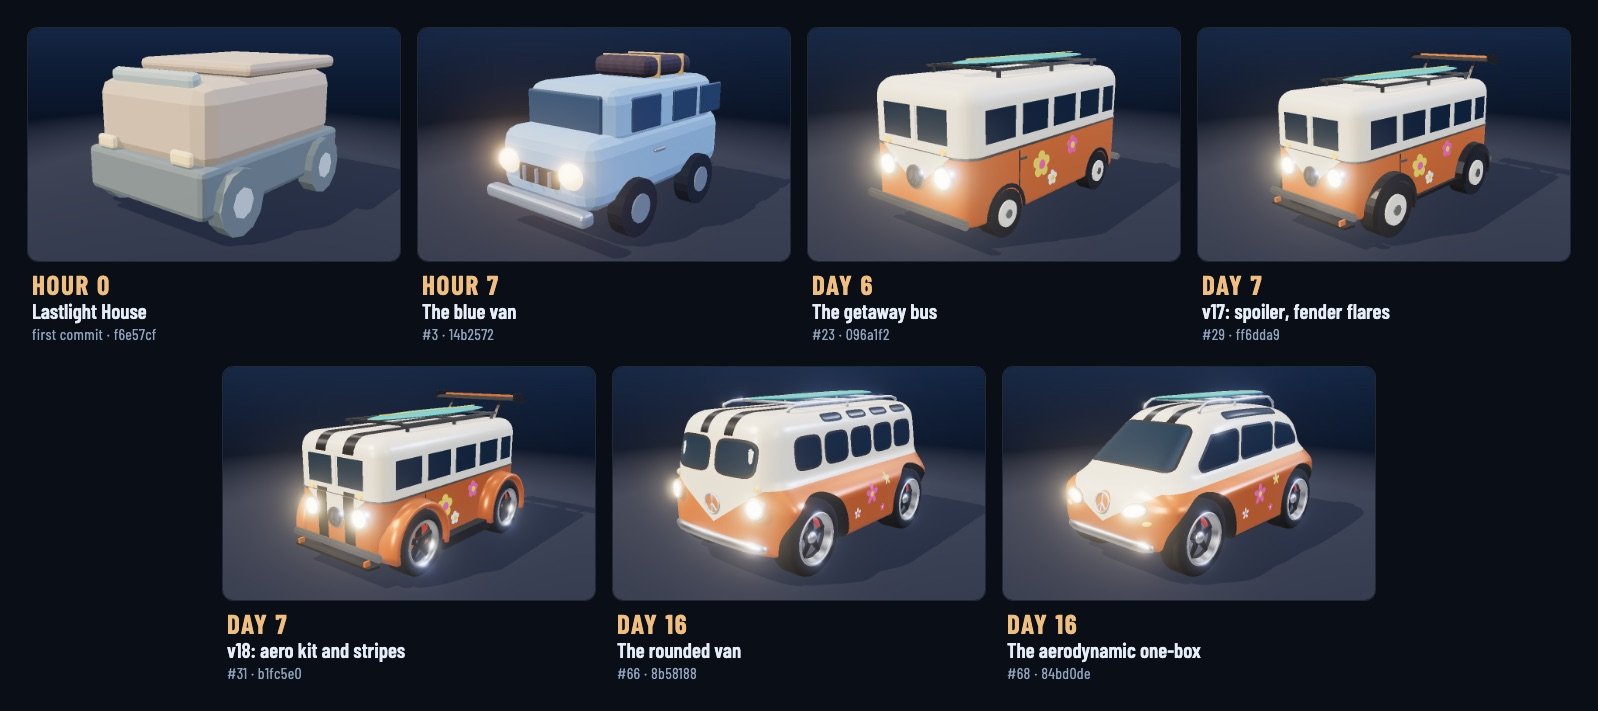
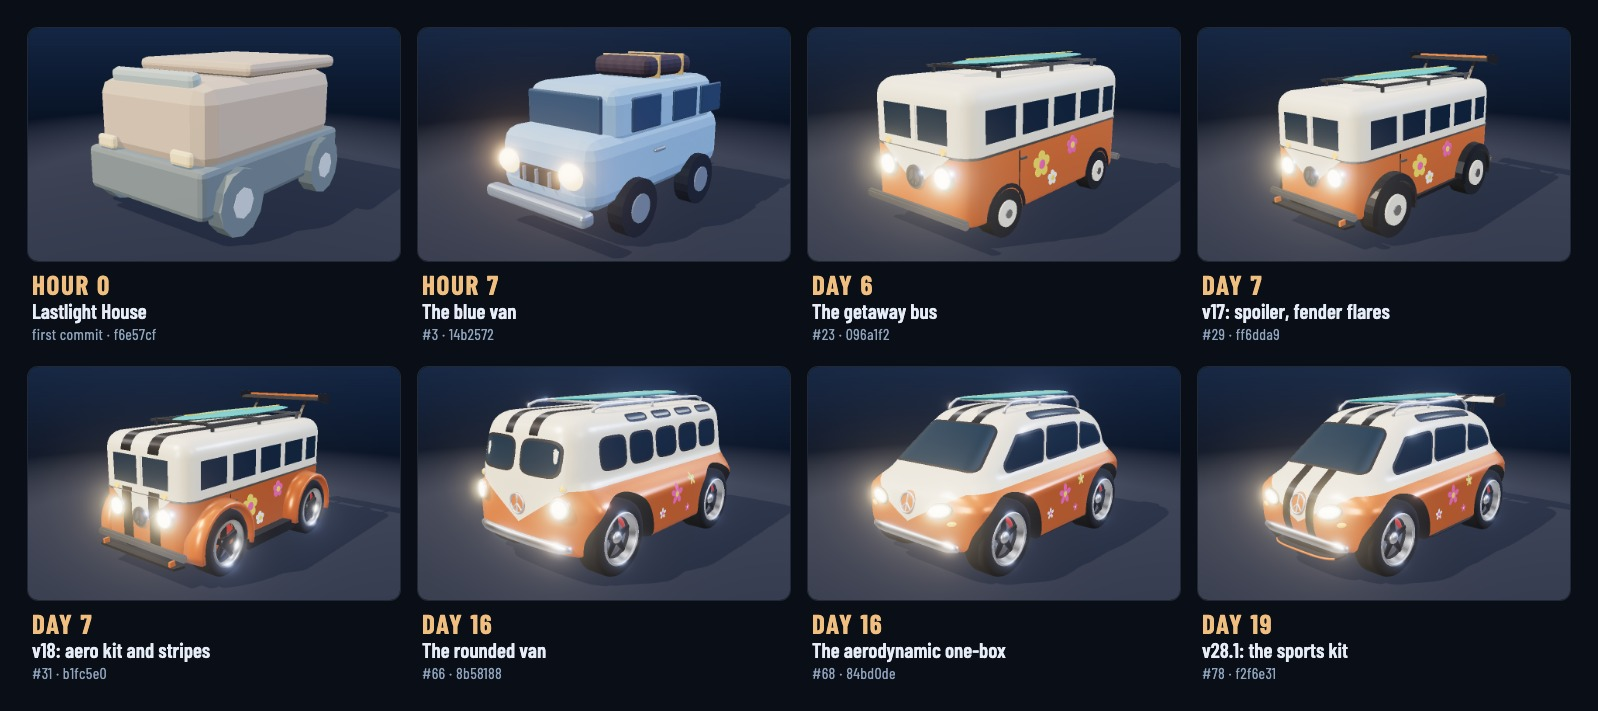
Sync Zombies history through v28.1
Refresh the public illustrated history from the private source through its latest elapsed-time milestone. Add the v28.1 landing and arrival captures, update the van lineup, and keep the README and engineering article pointers current.

Source: vasilyevstan/zombie-boardgame@41c25ef8205b60cef4e835c15a7ffed2303b5794

Validation: compared narrative to docs/HISTORY.md, verified all 31 image blob hashes, scanned images for calendar dates, and checked local links and anchors.

Changed region(s): [[0.0, 0.4951, 0.9812, 0.9592]]

diff --git a/projects/zombies-in-da-house-edge-multiplayer.md b/projects/zombies-in-da-house-edge-multiplayer.md
@@ -2,7 +2,7 @@
 
 **[Play the live demo](https://zombie-in-da-house.syntal.workers.dev)** · private source repository
 
-It started with a question: _do you know the board game «Зомби в доме», and can we make our own version of it?_ The answer became an original browser tabletop in the same spirit — find the vehicle key and the fuel, get back to the van, and if you fall, play for the house — with its own art, rules text and code. The first playable multiplayer build was committed the same evening. Seventeen days later the game had reached v28, after 163 commits on `main` and 66 merged pull requests.
+It started with a question: _do you know the board game «Зомби в доме», and can we make our own version of it?_ The answer became an original browser tabletop in the same spirit — find the vehicle key and the fuel, get back to the van, and if you fall, play for the house — with its own art, rules text and code. The first playable multiplayer build was committed the same evening. Eighteen days later the game had reached v28.1, after 174 commits on `main` and 73 merged pull requests.
 
 Every picture on this page comes from the real code of its day. Each snapshot was checked out, built from scratch and played again with the same seed; nothing is a mock-up. See [How these pictures were made](#how-these-pictures-were-made). The Warden and the van, the two models redesigned most often, also get [a section of their own](#the-warden-and-the-van).
 
@@ -10,26 +10,27 @@ Every picture on this page comes from the real code of its day. Each snapshot wa
 
 ## At a glance
 
-Time is counted from the first commit to each snapshot's merge to `main`: in hours on the first day, then in days, where day 1 is the first 24 hours.
+Time is counted from the first commit to each snapshot's merge to `main`: in hours on the first day, rounded to the nearest hour, then in days, where day 1 is the first 24 hours.
 
-| When       | Snapshot                     | Changes                                  | Highlights                                                                      |
-| ---------- | ---------------------------- | ---------------------------------------- | ------------------------------------------------------------------------------- |
-| Hour 0     | Lastlight House, [`f6e57cf`] | first commit                             | A playable multiplayer table: shared device or online room, spin to move.       |
-| Hour 7     | Blue miniature, [`14b2572`]  | [#1], [#3]                               | The name, a moonlit furnished cutaway, invitations and the first cloud release. |
-| Hour 16    | Solo nights, [`bb9056f`]     | [#7]                                     | Play alone with up to four bot companions; your rooms on the homepage.          |
-| Day 3      | Timber house, [`48b47c9`]    | [#9]                                     | A decaying wooden house, bots in every mode, the combat dial.                   |
-| Day 4      | Blender cast, [`7439b82`]    | [#11], [#13]                             | Detailed survivors and monsters modeled in Blender.                             |
-| Day 4      | Haunted grounds, [`75db377`] | [#14]                                    | Compact hero selection and explicit turn controls.                              |
-| Day 5      | Living woods, [`2b5cbea`]    | [#16], [#19], [#21]                      | Baked woods and trees, a burning hearth, house totals, a compact dock.          |
-| Day 6      | Getaway bus, [`096a1f2`]     | [#23]                                    | Compact setup, one Menu button, monsters rising from the floor, the hippie bus. |
-| Day 6      | v16, [`ff88425`]             | [#27]                                    | The original's weighted spinner, Autopilot, haunted gates.                      |
-| Day 7      | v17–v18, [`ff6dda9`]         | [#29], [#31]                             | Arrival and departure cutscenes, the Hall of Fame, rescues, the Bazooka.        |
-| Day 8      | v19, [`06749f5`]             | [#33]                                    | The van bay, a log cabin, a sunken road, four cutscenes.                        |
-| Days 8–10  | v20–v23, [`1389669`]         | [#38], [#40], [#42], [#44]               | Roster hearts, a last stand, mood-matched music, discs on every hidden cell.    |
-| Days 11–12 | v24–v25, [`0d1ae73`]         | [#48], [#50]                             | The rulebook map, a Blender gravel road, clean music handoffs.                  |
-| Days 12–16 | v26, [`84bd0de`]             | [#52], [#56], [#60], [#64], [#66], [#68] | Smarter bots, a smooth entrance, a scene for every fall, an aerodynamic van.    |
-| Day 17     | v27, [`06dba2a`]             | [#70]                                    | IDDQD and IDKFA, a winged Warden, checkmarks for survivors who reach the van.   |
-| Day 18     | v28, [`0504769`]             | [#72]                                    | No cheated games in the Hall of Fame, readable supplies, a Warden that walks.   |
+| When       | Snapshot                          | Changes                                  | Highlights                                                                      |
+| ---------- | --------------------------------- | ---------------------------------------- | ------------------------------------------------------------------------------- |
+| Hour 0     | Lastlight House, [`f6e57cf`]      | first commit                             | A playable multiplayer table: shared device or online room, spin to move.       |
+| Hour 7     | Blue miniature, [`14b2572`]       | [#1], [#3]                               | The name, a moonlit furnished cutaway, invitations and the first cloud release. |
+| Hour 16    | Solo nights, [`bb9056f`]          | [#7]                                     | Play alone with up to four bot companions; your rooms on the homepage.          |
+| Day 3      | Timber house, [`48b47c9`]         | [#9]                                     | A decaying wooden house, bots in every mode, the combat dial.                   |
+| Day 4      | Blender cast, [`7439b82`]         | [#11], [#13]                             | Detailed survivors and monsters modeled in Blender.                             |
+| Day 4      | Haunted grounds, [`75db377`]      | [#14]                                    | Compact hero selection and explicit turn controls.                              |
+| Day 5      | Living woods, [`2b5cbea`]         | [#16], [#19], [#21]                      | Baked woods and trees, a burning hearth, house totals, a compact dock.          |
+| Day 6      | Getaway bus, [`096a1f2`]          | [#23]                                    | Compact setup, one Menu button, monsters rising from the floor, the hippie bus. |
+| Day 6      | v16, [`ff88425`]                  | [#27]                                    | The original's weighted spinner, Autopilot, haunted gates.                      |
+| Day 7      | v17–v18, [`ff6dda9`], [`b1fc5e0`] | [#29], [#31]                             | Arrival and departure cutscenes, the Hall of Fame, rescues, the Bazooka.        |
+| Day 8      | v19, [`06749f5`]                  | [#33]                                    | The van bay, a log cabin, a sunken road, four cutscenes.                        |
+| Days 8–10  | v20–v23, [`1389669`]              | [#38], [#40], [#42], [#44]               | Roster hearts, a last stand, mood-matched music, discs on every hidden cell.    |
+| Days 11–12 | v24–v25, [`0d1ae73`]              | [#48], [#50]                             | The rulebook map, a Blender gravel road, clean music handoffs.                  |
+| Days 12–16 | v26, [`84bd0de`]                  | [#52], [#56], [#60], [#64], [#66], [#68] | Smarter bots, a smooth entrance, a scene for every fall, an aerodynamic van.    |
+| Day 17     | v27, [`06dba2a`]                  | [#70]                                    | IDDQD and IDKFA, a winged Warden, checkmarks for survivors who reach the van.   |
+| Day 18     | v28, [`0504769`]                  | [#72]                                    | No cheated games in the Hall of Fame, readable supplies, a Warden that walks.   |
+| Day 19     | v28.1, [`f2f6e31`]                | [#78]                                    | A sports kit for the van: a GT wing, carbon aero and stripes from nose to tail. |
 
 ## Hour 0 — Lastlight House
 
@@ -76,7 +77,7 @@ The brief: a frightening, decaying wooden house with natural green grass, a scar
 
 Snapshot [`7439b82`] · [#11] and [#13], promoted in [#12].
 
-Every figure was rebuilt in Blender: five adult survivors with 12,600–13,600-vertex heads, baked face textures, styled hair and role props (a blade, a carbine, a first-aid case, a riot shield), and four new monsters — a hound, a crawler, the Warden and a Shambler. The exported kit weighed 27.4 MB, over Cloudflare's 25 MiB per-file limit, so it was mesh-quantized to 18.9 MB. On the landing page the survivors now wait on the porch.
+Every figure was rebuilt in Blender: five adult survivors with 12,600–13,600-vertex heads, baked face textures, styled hair and role props (a blade, a carbine, a first-aid case, a riot shield), and four new monsters — a hound, a crawler, the Warden and a Shambler. The exported kit weighed 27.4 MB, over Cloudflare's 25 MiB per-file limit, so [#11] mesh-quantized it to 18.9 MB; with [#13]'s refined cast the shipped kit reached 25.5 MB, still under the limit. On the landing page the survivors now wait on the porch.
 
 ![The timber house at night with the Blender survivors sitting on the porch and the corrected ZOMBIES in da HOUSE wordmark](../assets/zombies-history/05-blender-cast-landing.jpg)
 
@@ -144,8 +145,8 @@ Four releases in 33 hours:
 
 - **v20:** Board up, Break and Grenade became compact buttons beside **End turn**, and a rules check confirmed that the medkit has no health cap, as in the rulebook.
 - **v21:** one heart per health point in the roster, a last-stand cutscene when the final survivor falls, and a haunted score with sound switches.
-- **v22:** cutscene music matched to the mood, every seat moves on turn 1, and every hidden marker is visible.
-- **v23:** a disc on every hidden cell (an audit found that furnished cells had none), a bazooka sling, barricades at any time, and a landing theme.
+- **v22:** cutscene music matched to the mood, every seat can move on turn 1, and every hidden marker is visible.
+- **v23:** a disc on every hidden cell (an audit found that furnished cells had none), a bazooka sling, barricades at any point of your own turn, and a landing theme.
 
 The landing page barely changed in these days; see the contact sheet above.
 
@@ -188,7 +189,7 @@ Old-school cheats arrived. Type `iddqd` and your survivor can no longer die: the
   <img src="../assets/zombies-history/15-v27-idkfa.jpg" width="49%" alt="v27 board after IDDQD and IDKFA: undiscovered monsters and items as pale ghosts, supplies as flat slabs, and a golden infinity sign in place of hearts">
 </p>
 
-## Day 18 — v28: today
+## Day 18 — v28: a Warden that walks
 
 Snapshot [`0504769`] · [#72], promoted in [#73].
 
@@ -199,7 +200,18 @@ Games played with a cheat no longer enter the Hall of Fame. The supplies were re
   <img src="../assets/zombies-history/16-v28-idkfa.jpg" width="49%" alt="v28 board after IDDQD and IDKFA: readable plank barricades, a jerry can and a key among the ghosts, and the winged Warden's ghost in the yard">
 </p>
 
-![The setup screen today: the Your place in the story panel with five Blender survivors, bot companions and rescued friends, beside the porch and the winged Warden](../assets/zombies-history/16-v28-setup.jpg)
+![The v28 setup screen: the Your place in the story panel with five Blender survivors, bot companions and rescued friends, beside the porch and the winged Warden](../assets/zombies-history/16-v28-setup.jpg)
+
+## Day 19 — v28.1: the sports kit
+
+Snapshot [`f2f6e31`] · [#78], promoted in [#79].
+
+A day later the one-box van got a sports kit from the same Blender script: a cream GT wing with stripes, on raked carbon pylons between flat carbon endplates, with a Gurney flap and a third brake lamp; a carbon splitter edged in sunset orange, an air dam, side skirts, a five-fin diffuser, and stripes from nose to tail. The body, wheels and outline did not change, so the van parks, drives and takes on survivors exactly as before.
+
+<p>
+  <img src="../assets/zombies-history/19-v28-1-landing.jpg" width="49%" alt="v28.1 landing page: the striped sports van parked beside the porch, the winged Warden on the right">
+  <img src="../assets/zombies-history/19-v28-1-arrival.jpg" width="49%" alt="v28.1 arrival cutscene: the sports van in profile with its GT wing above the tail, a zombie lurking behind it">
+</p>
 
 ## The Warden and the van
 
@@ -214,39 +226,40 @@ The Warden has had eight looks. After its Blender rebuild on day 4 it stayed the
 | When    | What changed                                                                                                                                                                       | Source      |
 | ------- | ---------------------------------------------------------------------------------------------------------------------------------------------------------------------------------- | ----------- |
 | Hour 0  | A blocky antlered figure on a round plinth.                                                                                                                                        | [`f6e57cf`] |
-| Hour 7  | The first model kit: a rounded body, glowing eyes and branching antlers.                                                                                                           | [#3]        |
+| Hour 7  | The moonlit model kit: a rounded body, glowing eyes and branching antlers.                                                                                                         | [#3]        |
 | Hour 16 | A dark open mouth and loose slats hanging over its chest.                                                                                                                          | [#7]        |
-| Day 3   | A gaunt, horned figure with a skull face, now rigged.                                                                                                                              | [#9]        |
+| Day 3   | A gaunt, horned figure with a skull face and a newly jointed head.                                                                                                                 | [#9]        |
 | Day 4   | Rebuilt in Blender as a timber giant of roots and splinters, with antlers, an ember heart and teeth.                                                                               | [#11]       |
-| Day 14  | The many-eyed giant from [`warden_model.py`](https://github.com/vasilyevstan/zombie-boardgame/blob/c3f83dfe1933907dfdd4d215843e90a2e0eaf041/assets/blender/warden_model.py): nine eyes, a needle maw, ribs, overlong clawed arms, a shroud, a shackle and a chain.             | [#56]       |
-| Day 17  | v27: vampire wings that stir with each breath and unfurl every few seconds.                                                                                                        | [#70]       |
+| Day 14  | The many-eyed giant from [`warden_model.py`](https://github.com/vasilyevstan/zombie-boardgame/blob/41c25ef8205b60cef4e835c15a7ffed2303b5794/assets/blender/warden_model.py): nine eyes, a needle maw, ribs, overlong clawed arms, a shroud, a shackle and a chain.             | [#56]       |
+| Day 17  | v27: vampire wings that stir with each breath and flare forward every few seconds.                                                                                                 | [#70]       |
 | Day 18  | v28, 22 hours later: an armature lets it knuckle-walk, using its arms as front legs with planted claws, in the woods, on the board and in cutscenes. The tile shows it mid-stride. | [#72]       |
 
 ### The van
 
-The van has had seven bodies. The blue van of hour 7 lasted about five days. The hippie bus that replaced it got sportier twice on day 7, sixteen hours apart, and on day 16 a Blender script rebuilt it twice, twelve hours apart. It has not changed since.
+The van has had eight looks. The blue van of hour 7 lasted about five days. The hippie bus that replaced it got sportier twice on day 7, sixteen hours apart, and on day 16 a Blender script rebuilt it twice, twelve hours apart. Two and a half days later, on day 19, the one-box got a sports kit.
 
-![Seven studio renders of the van in two rows: a pastel box on octagonal wheels; a pale blue van with a bedroll on the roof; an orange-and-white hippie bus with flowers and a surfboard; the bus with a spoiler; the bus with an aero kit and black stripes; a rounder van with a peace sign; and a low aerodynamic one-box van](../assets/zombies-history/18-van-lineup.jpg)
+![Eight studio renders of the van in two rows of four: a pastel box on octagonal wheels; a pale blue van with a bedroll on the roof; an orange-and-white hippie bus with flowers and a surfboard; the bus with a spoiler; the bus with an aero kit and black stripes; a rounder van with a peace sign; a low aerodynamic one-box van; and the same one-box with a GT wing, a splitter and stripes from nose to tail](../assets/zombies-history/18-van-lineup.jpg)
 
-| When   | What changed                                                                                                         | Source      |
-| ------ | -------------------------------------------------------------------------------------------------------------------- | ----------- |
-| Hour 0 | A pastel box on octagonal wheels.                                                                                    | [`f6e57cf`] |
-| Hour 7 | A pale blue van with a bedroll on the roof rack, round lamps, a grille and a bumper.                                 | [#3]        |
-| Day 6  | An orange-and-white hippie getaway bus with flowers and a surfboard.                                                 | [#23]       |
-| Day 7  | v17: a spoiler, fender flares and separate wheels.                                                                   | [#29]       |
-| Day 7  | v18: an aero kit, brake calipers and rotors, an exhaust and stripes.                                                 | [#31]       |
-| Day 16 | Rebuilt from a Blender script, [`van_model.py`](https://github.com/vasilyevstan/zombie-boardgame/blob/c3f83dfe1933907dfdd4d215843e90a2e0eaf041/assets/blender/van_model.py), as a rounder van with a peace sign. | [#66]       |
-| Day 16 | An aerodynamic one-box with a teardrop body, wrap-around glass and deep-dish wheels.                                 | [#68]       |
+| When   | What changed                                                                                                                       | Source      |
+| ------ | ---------------------------------------------------------------------------------------------------------------------------------- | ----------- |
+| Hour 0 | A pastel box on octagonal wheels.                                                                                                  | [`f6e57cf`] |
+| Hour 7 | A pale blue van with a bedroll on the roof rack, round lamps, a grille and a bumper.                                               | [#3]        |
+| Day 6  | An orange-and-white hippie getaway bus with flowers and a surfboard.                                                               | [#23]       |
+| Day 7  | v17: a spoiler, fender flares and separate wheels.                                                                                 | [#29]       |
+| Day 7  | v18: an aero kit, brake calipers and rotors, an exhaust and stripes.                                                               | [#31]       |
+| Day 16 | Rebuilt from a Blender script, [`van_model.py`](https://github.com/vasilyevstan/zombie-boardgame/blob/41c25ef8205b60cef4e835c15a7ffed2303b5794/assets/blender/van_model.py), as a rounder van with a peace sign.               | [#66]       |
+| Day 16 | An aerodynamic one-box with a teardrop body, wrap-around glass and deep-dish wheels.                                               | [#68]       |
+| Day 19 | v28.1: a sports kit — a cream GT wing between carbon endplates, a splitter, side skirts, a diffuser and stripes from nose to tail. | [#78]       |
 
 ## Behind the scenes
 
-- After the first commit, every change went through a pull request to `dev`, then reached `main` in one of 31 promotion pull requests.
-- By day 4 ([#11]) the suite had 34 unit tests, 16 integration tests and 12 browser journeys on each transport. With v28 it has 78 unit tests, 24 integration tests and 34 browser journeys, run both on Node and on the Cloudflare Worker.
+- After the first commit, every change went through a pull request to `dev`, then reached `main` in a promotion pull request; v28.1 arrived in the 34th.
+- By day 4 ([#11]) the suite had 34 unit tests, 16 integration tests and 12 browser journeys on each transport. With v28.1 it has 78 unit tests, 24 integration tests and 34 browser journeys, run both on Node and on the Cloudflare Worker.
 - The game runs in production at <https://zombie-in-da-house.syntal.workers.dev>.
 
 ## How these pictures were made
 
-Each snapshot is the `main` merge commit named in its chapter, rebuilt from scratch for this page:
+Each snapshot is the `main` commit named in its chapter (a merge commit, except the first commit), rebuilt from scratch for this page:
 
 ```sh
 git worktree add --detach /tmp/zidh-history/wt <commit>
@@ -259,7 +272,7 @@ NODE_ENV=test TEST_GAME_SEED=17 HOST=127.0.0.1 PORT=4290 \
 - Every snapshot ran locally on Node with a fresh SQLite database and seed 17, so each build deals its own table reproducibly. The deck itself changed over time.
 - Playwright drove Chromium with hardware WebGL (ANGLE on Metal, Apple silicon) at 1440×900. It opened the landing page and started a solo game with two bot companions. The first two snapshots predate solo play, so there it set a two-player shared-device table. It captured or skipped the arrival cutscene, then waited for the board.
 - The cheat shots type `iddqd`, then `idkfa`, on the board and zoom in four steps.
-- None of the 16 builds logged a console error.
+- None of the 17 builds logged a console error.
 - Later landing pages carry a build stamp in the footer. The date of our rebuild was painted out of it, leaving the version and commit.
 - The lineups are studio renders of each version's own model file from the repository history, made with three.js r187 under one light rig and camera angle; only self-lit parts such as lamps and eyes glow. The walking Warden is posed mid-stride by the game's own gait code. They show the models, not the game's lighting.
 - Screenshots are 1200-pixel JPEGs; the contact sheet is a montage of the 16 landing pages.
@@ -274,12 +287,14 @@ NODE_ENV=test TEST_GAME_SEED=17 HOST=127.0.0.1 PORT=4290 \
 [`096a1f2`]: https://github.com/vasilyevstan/zombie-boardgame/commit/096a1f2ff6f3484760676dcb33b7acf799827d64
 [`ff88425`]: https://github.com/vasilyevstan/zombie-boardgame/commit/ff8842519b52339b42b52db8cac0ffc6313880af
 [`ff6dda9`]: https://github.com/vasilyevstan/zombie-boardgame/commit/ff6dda906ea0b5b2fdfc529c730366be4def16cb
+[`b1fc5e0`]: https://github.com/vasilyevstan/zombie-boardgame/commit/b1fc5e08831376c10190a2e111027046d35d2d1f
 [`06749f5`]: https://github.com/vasilyevstan/zombie-boardgame/commit/06749f57c85de78fbf87f82bafcc1796b8535c18
 [`1389669`]: https://github.com/vasilyevstan/zombie-boardgame/commit/1389669dee43e945e34c335b9c4b4b1241874080
 [`0d1ae73`]: https://github.com/vasilyevstan/zombie-boardgame/commit/0d1ae73dda076a87a8f4a8aa89633f9fb8ee5aef
 [`84bd0de`]: https://github.com/vasilyevstan/zombie-boardgame/commit/84bd0debf1e4707bf59cc28d0a178f7c54dc321a
 [`06dba2a`]: https://github.com/vasilyevstan/zombie-boardgame/commit/06dba2a2078f1d884ae101612b63cb9ccb7b2aa8
 [`0504769`]: https://github.com/vasilyevstan/zombie-boardgame/commit/05047697142be180f89a369ef6a999716209d4eb
+[`f2f6e31`]: https://github.com/vasilyevstan/zombie-boardgame/commit/f2f6e31e690482530d01d4fe4c2912b112691a68
 [#1]: https://github.com/vasilyevstan/zombie-boardgame/pull/1
 [#2]: https://github.com/vasilyevstan/zombie-boardgame/pull/2
 [#3]: https://github.com/vasilyevstan/zombie-boardgame/pull/3
@@ -330,5 +345,7 @@ NODE_ENV=test TEST_GAME_SEED=17 HOST=127.0.0.1 PORT=4290 \
 [#71]: https://github.com/vasilyevstan/zombie-boardgame/pull/71
 [#72]: https://github.com/vasilyevstan/zombie-boardgame/pull/72
 [#73]: https://github.com/vasilyevstan/zombie-boardgame/pull/73
+[#78]: https://github.com/vasilyevstan/zombie-boardgame/pull/78
+[#79]: https://github.com/vasilyevstan/zombie-boardgame/pull/79
 [issue #58]: https://github.com/vasilyevstan/zombie-boardgame/issues/58
 [issue #59]: https://github.com/vasilyevstan/zombie-boardgame/issues/59

diff --git a/README.md b/README.md
@@ -21,7 +21,7 @@ _Personal projects; opinions are my own._ · [LinkedIn](https://www.linkedin.com
 - [BetStan: from learning TypeScript to AI-assisted engineering](articles/ai-assisted-engineering-betstan.md):
   from a pre-match prototype to live betting, reusable markets and risk controls.
 - [How Zombies in da House evolved](projects/zombies-in-da-house-edge-multiplayer.md):
-  sixteen snapshots of a multiplayer game, and what playtesting changed after the first evening.
+  the game's evolution through v28.1, including the changing Warden and van designs.
 - [How I ship](how-i-ship.md): the working rules I keep.
 
 ## Projects

diff --git a/articles/ai-assisted-engineering-in-practice.md b/articles/ai-assisted-engineering-in-practice.md
@@ -205,7 +205,7 @@ game I liked. Three hours and 44 minutes later, the first playable
 multiplayer build was committed. The first cloud release followed the next
 morning. The three boards below show early milestones; the
 [illustrated game history](../projects/zombies-in-da-house-edge-multiplayer.md)
-follows sixteen snapshots through v28.
+follows the game through v28.1, including the changing Warden and van designs.
 
 | First playable build | The house moves into the woods | v19: log cabin and van bay |
 | --- | --- | --- |
